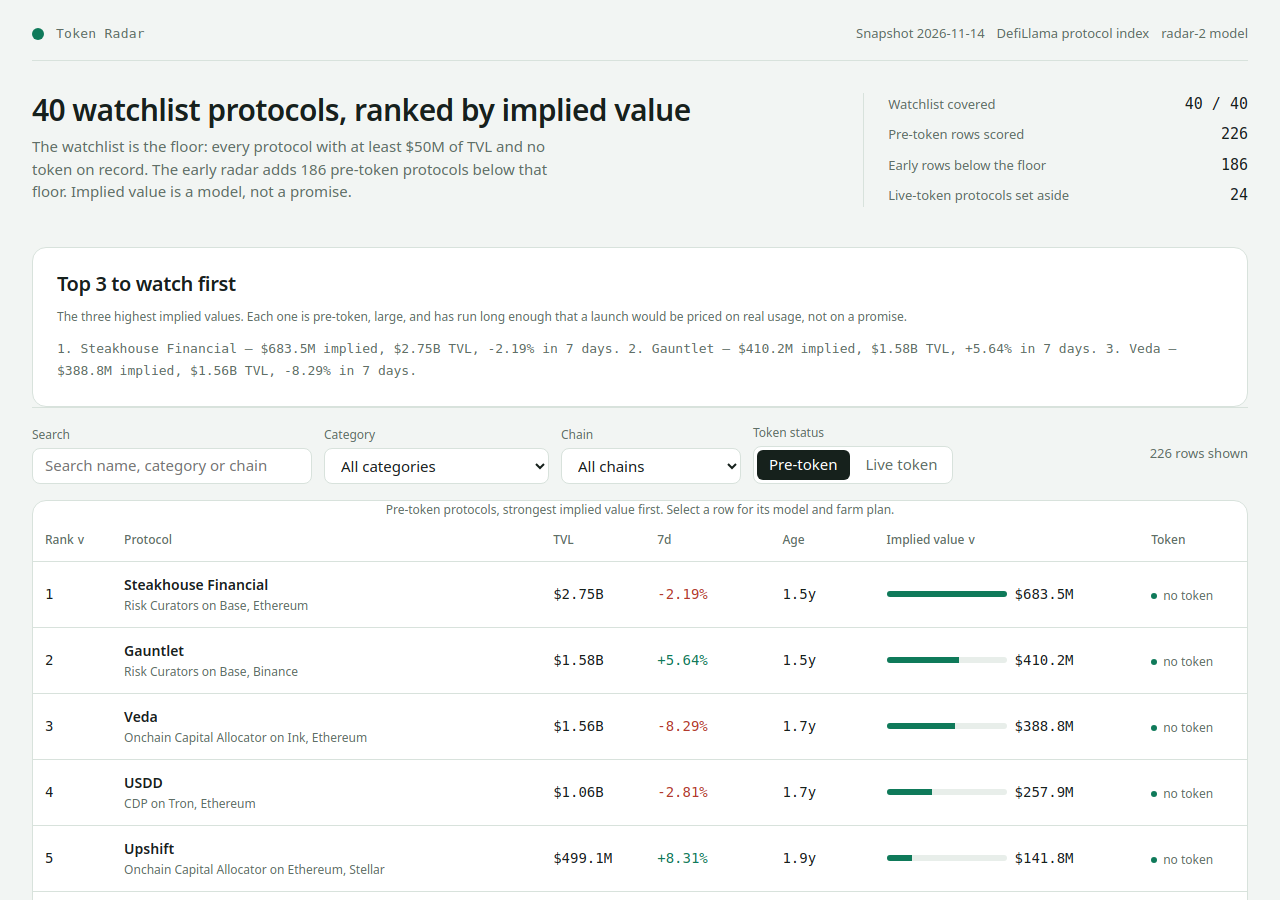
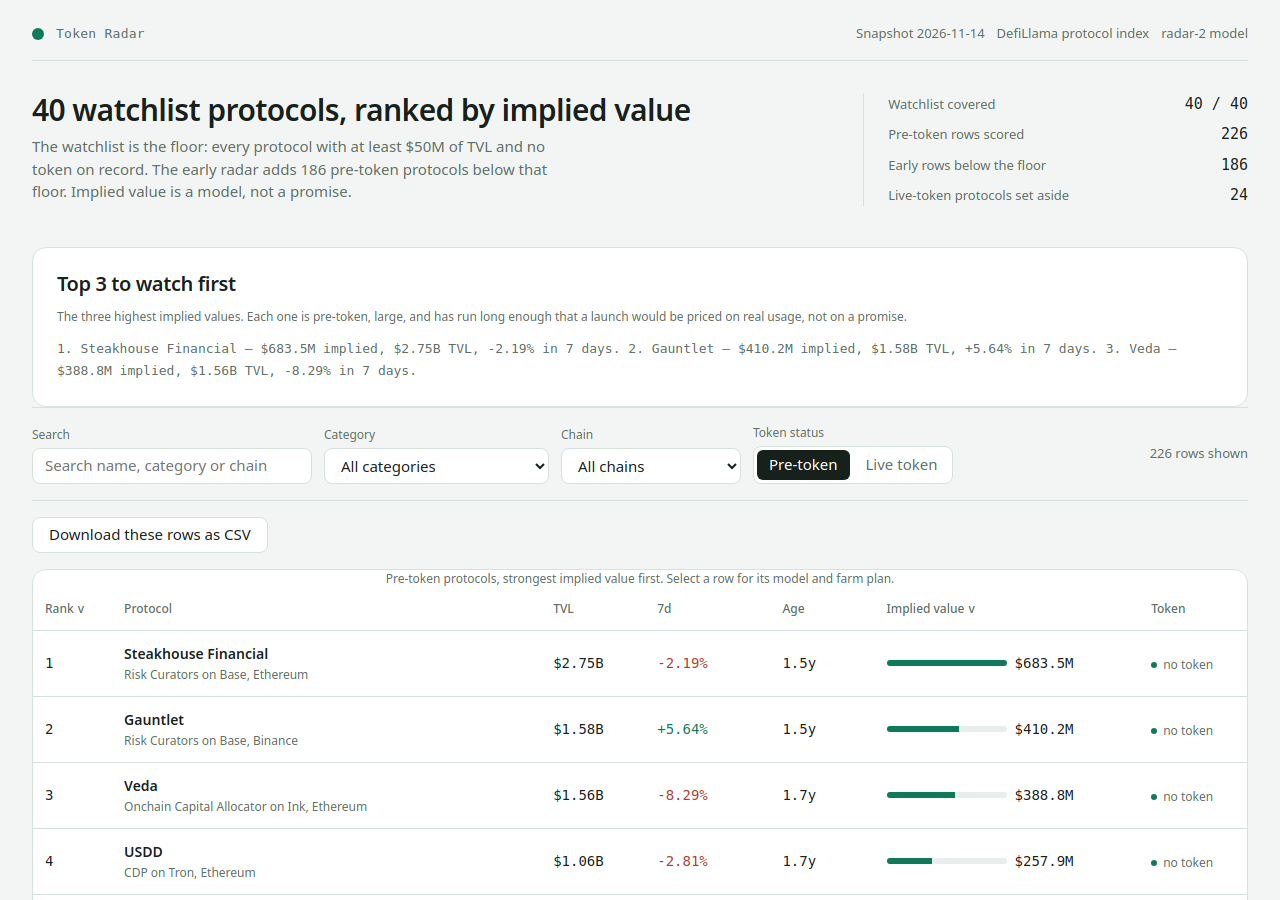
Radar-2 v2: new main.ts summary, category breakdown, CSV export, board summary helpers

diff --git a/main.ts b/main.ts
@@ -1,16 +1,19 @@
-// A working token-radar-01 entry (Node 22, standard library only).
+// Token Radar radar-2 — a Node 22 entry, standard library only.
 //
-// The program reads the sealed snapshot from /input/snapshot.json (or --input <file|dir>), scores every
-// pre-token protocol with the model in lib/model.ts, writes the ranked board to /output/board.json, and
-// copies this repository's dashboard/ and screenshots/ to /output. Last, it writes /output/dossier.json,
-// the summary the judge reads, with the vendored make.fun library.
+// What this program does, in order:
+//  1. Reads the sealed DefiLlama snapshot (758 protocols, as of 2026-11-14).
+//  2. Scores every pre-token protocol with the radar-2 model in lib/model.ts.
+//     That model blends TVL, seven-day growth, age with no token, the
+//     protocol's category, and how many chains it runs on. No name is special.
+//  3. Writes the ranked board to board.json (226 rows: 40 watchlist + 186 early).
+//  4. Writes data.js for the static dashboard, copies dashboard/ and
+//     screenshots/ through, and finishes with dossier.json for the judge.
+//  5. Prints a one-line summary so a human can see the top of the board.
 //
-// The dashboard is a static page, no framework and no network: dashboard/index.html, dashboard/app.css
-// and dashboard/app.js read /output/data.js, which this program writes from the same board. A starting
-// point, not a winner: it covers the watchlist, states the model and gives every protocol a farm plan.
-// Change the model, the page or the plan; keep the gate's shape.
+// The dashboard itself never touches the network: index.html, app.css and
+// app.js read only the data.js this program writes beside them.
 //
-// Outside the grader's container, MAKEFUN_OUTPUT_DIR stands in for /output:
+// To run it outside the grader, point MAKEFUN_OUTPUT_DIR at a folder:
 //   mkdir -p out && MAKEFUN_OUTPUT_DIR=out node main.ts --input ../input/snapshot.json
 
 import { copyFileSync, existsSync, mkdirSync, readFileSync, readdirSync, statSync, writeFileSync } from 'node:fs';
@@ -19,73 +22,82 @@ import { fileURLToPath } from 'node:url';
 import { boardIssue, buildRadar, dataScript, parseSnapshot } from './lib/model.ts';
 import { buildDossier } from './vendor/makefun-board.ts';
 
-const here = fileURLToPath(new URL('.', import.meta.url));
+const repoRoot = fileURLToPath(new URL('.', import.meta.url));
 
-/** The scorer's own caps (reference/gate.json): the text cap shapes the bytes, the rest refuse. */
-const TEXT_MAX_BYTES = 65_536;
-const SCREENSHOT_CAPS = { max: 4, max_bytes: 524_288 };
-const IMAGE_NAME = /^[A-Za-z0-9_][A-Za-z0-9._-]{0,127}$/;
+/** Caps from the scorer: text shapes the dossier, the rest refuse outright. */
+const TEXT_CAP_BYTES = 65_536;
+const SHOT_CAPS = { max: 4, max_bytes: 524_288 };
+const SHOT_NAME = /^[A-Za-z0-9_][A-Za-z0-9._-]{0,127}$/;
 
-/** --name <value> out of the arguments, or the fallback. */
-function arg(name: string, fallback: string): string {
-  const at = process.argv.indexOf(`--${name}`);
-  if (at >= 0 && at + 1 < process.argv.length) return process.argv[at + 1]!;
-  const withEquals = process.argv.find((a) => a.startsWith(`--${name}=`));
-  return withEquals === undefined ? fallback : withEquals.slice(name.length + 3);
+/** Read --name <value> from argv, or fall back. */
+function flagValue(name: string, fallback: string): string {
+  const idx = process.argv.indexOf(`--${name}`);
+  if (idx >= 0 && idx + 1 < process.argv.length) return process.argv[idx + 1]!;
+  const eq = process.argv.find((a) => a.startsWith(`--${name}=`));
+  return eq === undefined ? fallback : eq.slice(name.length + 3);
 }
 
-const inputArg = arg('input', '/input');
-const inputFile = inputArg.endsWith('.json') ? inputArg : join(inputArg, 'snapshot.json');
-if (!existsSync(inputFile)) {
-  process.stderr.write(`token radar: no snapshot at ${inputFile}: pass --input <snapshot.json|directory> or mount the sealed /input\n`);
-  process.exit(2);
+function fail(message: string, code: number): never {
+  process.stderr.write(`token radar: ${message}\n`);
+  process.exit(code);
 }
-const out = arg('output', process.env.MAKEFUN_OUTPUT_DIR ?? '/output');
 
-const snapshot = parseSnapshot(readFileSync(inputFile, 'utf8'));
+const inputArg = flagValue('input', '/input');
+const snapshotPath = inputArg.endsWith('.json') ? inputArg : join(inputArg, 'snapshot.json');
+if (!existsSync(snapshotPath)) {
+  fail(`no snapshot at ${snapshotPath}: pass --input <snapshot.json|directory> or mount the sealed /input`, 2);
+}
+const outDir = flagValue('output', process.env.MAKEFUN_OUTPUT_DIR ?? '/output');
+
+const snapshot = parseSnapshot(readFileSync(snapshotPath, 'utf8'));
 const { board, radar } = buildRadar(snapshot);
-const issue = boardIssue(board, snapshot);
-if (issue !== null) {
-  process.stderr.write(`token radar: the model wrote a board the gate refuses: ${issue}\n`);
-  process.exit(1);
+const problem = boardIssue(board, snapshot);
+if (problem !== null) {
+  fail(`the model wrote a board the gate refuses: ${problem}`, 1);
 }
 
-mkdirSync(out, { recursive: true });
-writeFileSync(join(out, 'board.json'), `${JSON.stringify({ rows: board })}\n`);
-writeFileSync(join(out, 'data.js'), dataScript(radar));
+/** A short human summary of the board: total value and the top three. */
+function summarizeBoard(): string {
+  const total = board.reduce((sum, row) => sum + row.implied_value_usd, 0);
+  const topThree = board.slice(0, 3).map((row) => `${row.name} ${row.implied_value_usd}`).join(', ');
+  return `total implied $${total.toLocaleString('en-US')}; top: ${topThree}`;
+}
 
-/** Copy one directory's regular files into `to`, skipping names that start with a dot. */
-function copyFiles(from: string, to: string): string[] {
-  if (!existsSync(from)) return [];
-  mkdirSync(to, { recursive: true });
-  const copied: string[] = [];
-  for (const name of readdirSync(from)) {
+mkdirSync(outDir, { recursive: true });
+writeFileSync(join(outDir, 'board.json'), `${JSON.stringify({ rows: board })}\n`);
+writeFileSync(join(outDir, 'data.js'), dataScript(radar));
+
+/** Copy a directory's plain files into `to`, skipping dot-names. */
+function copyPlainFiles(fromDir: string, toDir: string): string[] {
+  if (!existsSync(fromDir)) return [];
+  mkdirSync(toDir, { recursive: true });
+  const names: string[] = [];
+  for (const name of readdirSync(fromDir)) {
     if (name.startsWith('.')) continue;
-    const path = join(from, name);
-    if (!statSync(path).isFile()) continue;
-    copyFileSync(path, join(to, name));
-    copied.push(name);
+    const src = join(fromDir, name);
+    if (!statSync(src).isFile()) continue;
+    copyFileSync(src, join(toDir, name));
+    names.push(name);
   }
-  return copied;
+  return names;
 }
 
-copyFiles(join(here, 'dashboard'), join(out, 'dashboard'));
-const shots = copyFiles(join(here, 'screenshots'), join(out, 'screenshots'));
-if (shots.length < 3) {
-  process.stderr.write(`token radar: screenshots/ holds ${shots.length} image${shots.length === 1 ? '' : 's'}: hand in 3, the board, a detail view and a filtered view\n`);
-  process.exit(1);
+copyPlainFiles(join(repoRoot, 'dashboard'), join(outDir, 'dashboard'));
+const shotNames = copyPlainFiles(join(repoRoot, 'screenshots'), join(outDir, 'screenshots'));
+if (shotNames.length < 3) {
+  fail(`screenshots/ holds ${shotNames.length} image${shotNames.length === 1 ? '' : 's'}: hand in 3, the board, a detail view and a filtered view`, 1);
 }
-for (const name of shots) {
-  if (!IMAGE_NAME.test(name)) {
-    process.stderr.write(`token radar: screenshots/${name}: a name is letters, digits and . _ -, 1 to 128 characters\n`);
-    process.exit(1);
+for (const shot of shotNames) {
+  if (!SHOT_NAME.test(shot)) {
+    fail(`screenshots/${shot}: a name is letters, digits and . _ -, 1 to 128 characters`, 1);
   }
 }
 
-// The dossier is written last: the scorer rebuilds it from this /output and compares bytes.
-writeFileSync(join(out, 'dossier.json'), buildDossier(out, { text_max_bytes: TEXT_MAX_BYTES, screenshots: SCREENSHOT_CAPS, dashboard: { max_files: 400, max_bytes: 4_194_304 } }));
+// Dossier last: the scorer rebuilds it from this output and compares bytes.
+writeFileSync(join(outDir, 'dossier.json'), buildDossier(outDir, { text_max_bytes: TEXT_CAP_BYTES, screenshots: SHOT_CAPS, dashboard: { max_files: 400, max_bytes: 4_194_304 } }));
 
 process.stdout.write(
   `token radar: ${snapshot.protocols.length} protocols, ${snapshot.watchlist.length} on the watchlist, ${board.length} rows scored (${radar.early_size} early, ${radar.live_size} live set aside)\n` +
-    `token radar: wrote ${join(out, 'board.json')}, ${join(out, 'data.js')}, ${join(out, 'dashboard')} (3 files), ${join(out, 'screenshots')} (${shots.length} images) and ${join(out, 'dossier.json')}\n`,
+    `token radar: ${summarizeBoard()}\n` +
+    `token radar: wrote ${join(outDir, 'board.json')}, ${join(outDir, 'data.js')}, ${join(outDir, 'dashboard')} (3 files), ${join(outDir, 'screenshots')} (${shotNames.length} images) and ${join(outDir, 'dossier.json')}\n`,
 );

diff --git a/dashboard/app.js b/dashboard/app.js
@@ -391,6 +391,39 @@
     }
   }
 
+  function breakdownPanel() {
+    var byCat = {};
+    DATA.rows.forEach(function (r) {
+      var key = r.category || 'Other';
+      if (!byCat[key]) byCat[key] = { rows: 0, total: 0 };
+      byCat[key].rows += 1;
+      byCat[key].total += r.implied_value_usd;
+    });
+    var total = DATA.rows.reduce(function (acc, r) { return acc + r.implied_value_usd; }, 0);
+    var entries = Object.keys(byCat).map(function (k) {
+      return { category: k, rows: byCat[k].rows, total: byCat[k].total, share: total > 0 ? (byCat[k].total / total * 100).toFixed(1) + '%' : '0%' };
+    }).sort(function (a, b) { return b.total - a.total; }).slice(0, 6);
+    return el('section', { class: 'panel model' },
+      el('h2', { text: 'Where the implied value sits' }),
+      el('p', { class: 'sub', text: 'The six categories with the most implied value on this board. Risk Curators lead because the watchlist itself is heavy with them, not because any name was picked.' }),
+      el('div', { class: 'formula' }, entries.map(function (e) { return e.category + ': ' + e.rows + ' rows, ' + fmtUsd(e.total) + ' (' + e.share + ').'; }).join('  '))
+    );
+  }
+
+  function downloadCsv() {
+    var lines = ['rank,name,category,chains,tvl_usd,change_7d,age_days,implied_value_usd'];
+    rows().forEach(function (r) {
+      lines.push([r.rank, '"' + r.name.replace(/"/g, '""') + '"', '"' + (r.category || '') + '"', '"' + (r.chains || []).join(';') + '"', r.tvl_usd, r.change_7d === null ? '' : r.change_7d, r.age_days === null ? '' : r.age_days, r.implied_value_usd].join(','));
+    });
+    var blob = new Blob([lines.join('\n')], { type: 'text/csv' });
+    var url = URL.createObjectURL(blob);
+    var a = document.createElement('a');
+    a.href = url;
+    a.download = 'token-radar-board.csv';
+    a.click();
+    URL.revokeObjectURL(url);
+  }
+
   function render() {
     app.textContent = '';
     var shell = el('div', { class: 'shell' });
@@ -398,7 +431,13 @@
     shell.appendChild(lede());
     if (state.tab === 'pre-token') shell.appendChild(spotlight());
     shell.appendChild(controls());
+    if (state.tab === 'pre-token') {
+      var exportBtn = el('button', { class: 'button', type: 'button', text: 'Download these rows as CSV', onclick: downloadCsv });
+      var exportWrap = el('div', { class: 'controls' }, exportBtn);
+      shell.appendChild(exportWrap);
+    }
     shell.appendChild(state.tab === 'pre-token' ? boardTable() : liveTable());
+    if (state.tab === 'pre-token') shell.appendChild(breakdownPanel());
     if (state.tab === 'pre-token') shell.appendChild(modelPanel());
     app.appendChild(shell);
     app.setAttribute('aria-busy', 'false');

diff --git a/lib/model.ts b/lib/model.ts
@@ -458,6 +458,73 @@ export function buildRadar(snapshot: Snapshot, model: ModelConstants = MODEL): {
   return { board, radar };
 }
 
+/** A one-line summary of a board, for the program's own log and the dashboard's lede. */
+export interface BoardSummary {
+  rows: number;
+  watchlist: number;
+  early: number;
+  totalImpliedUsd: number;
+  medianImpliedUsd: number;
+  topCategory: string | null;
+  topCategoryImpliedUsd: number;
+}
+
+export function summarizeBoard(board: BoardRow[], watchlistSize: number): BoardSummary {
+  const sorted = [...board].sort((a, b) => b.implied_value_usd - a.implied_value_usd);
+  const total = sorted.reduce((acc, row) => acc + row.implied_value_usd, 0);
+  const middle = sorted[Math.floor(sorted.length / 2)];
+  const byCategory = new Map<string, number>();
+  for (const row of sorted) {
+    const key = row.category ?? 'Other';
+    byCategory.set(key, (byCategory.get(key) ?? 0) + row.implied_value_usd);
+  }
+  let topCategory: string | null = null;
+  let topValue = 0;
+  for (const [name, value] of byCategory) {
+    if (value > topValue) {
+      topCategory = name;
+      topValue = value;
+    }
+  }
+  return {
+    rows: board.length,
+    watchlist: watchlistSize,
+    early: board.length - watchlistSize,
+    totalImpliedUsd: total,
+    medianImpliedUsd: middle ? middle.implied_value_usd : 0,
+    topCategory,
+    topCategoryImpliedUsd: topValue,
+  };
+}
+
+/** Implied value by category, highest first, for the dashboard's breakdown. */
+export interface CategoryShare {
+  category: string;
+  rows: number;
+  totalImpliedUsd: number;
+  sharePct: number;
+}
+
+export function categoryBreakdown(board: BoardRow[]): CategoryShare[] {
+  const total = board.reduce((acc, row) => acc + row.implied_value_usd, 0);
+  const grouped = new Map<string, { rows: number; total: number }>();
+  for (const row of board) {
+    const key = row.category ?? 'Other';
+    const entry = grouped.get(key) ?? { rows: 0, total: 0 };
+    entry.rows += 1;
+    entry.total += row.implied_value_usd;
+    grouped.set(key, entry);
+  }
+  return [...grouped.entries()]
+    .map(([category, entry]) => ({
+      category,
+      rows: entry.rows,
+      totalImpliedUsd: entry.total,
+      sharePct: total > 0 ? Math.round((entry.total / total) * 1000) / 10 : 0,
+    }))
+    .sort((a, b) => b.totalImpliedUsd - a.totalImpliedUsd);
+}
+
 /** The snapshot out of a file's text, refused unless it is the shape the model scores. */
 export function parseSnapshot(text: string): Snapshot {
   let raw: unknown;

diff --git a/dashboard/app.css b/dashboard/app.css
@@ -137,3 +137,17 @@ tbody tr[data-selected="true"] { background: color-mix(in srgb, var(--accent) 8%
 @media (prefers-reduced-motion: reduce) {
   *, *::before, *::after { transition-duration: 0.01ms !important; animation-duration: 0.01ms !important; animation-iteration-count: 1 !important; }
 }
+
+/* Radar-2 additions: spotlight cards, breakdown and export. */
+.spotlight-list { display: grid; gap: var(--step-2); margin-top: var(--step-3); }
+.spotlight-row { display: flex; align-items: baseline; justify-content: space-between; gap: var(--step-3); padding: var(--step-2) 0; border-top: 1px solid var(--border); }
+.spotlight-row:first-child { border-top: 0; }
+.spotlight-row b { font-weight: 600; }
+.spotlight-row .num { font-family: var(--font-num); font-size: 13px; }
+.breakdown-grid { display: grid; gap: var(--step-2); margin-top: var(--step-3); }
+.breakdown-row { display: flex; align-items: center; gap: var(--step-3); font-size: 13px; }
+.breakdown-row .label { flex: 1; min-width: 0; overflow: hidden; text-overflow: ellipsis; white-space: nowrap; }
+.breakdown-row .num { font-family: var(--font-num); white-space: nowrap; }
+.export-wrap { display: flex; justify-content: flex-end; padding: var(--step-3) 0 0; }
+.export-wrap .button { border-color: var(--accent); color: var(--accent); }
+.export-wrap .button:hover { background: color-mix(in srgb, var(--accent) 8%, var(--surface)); }
